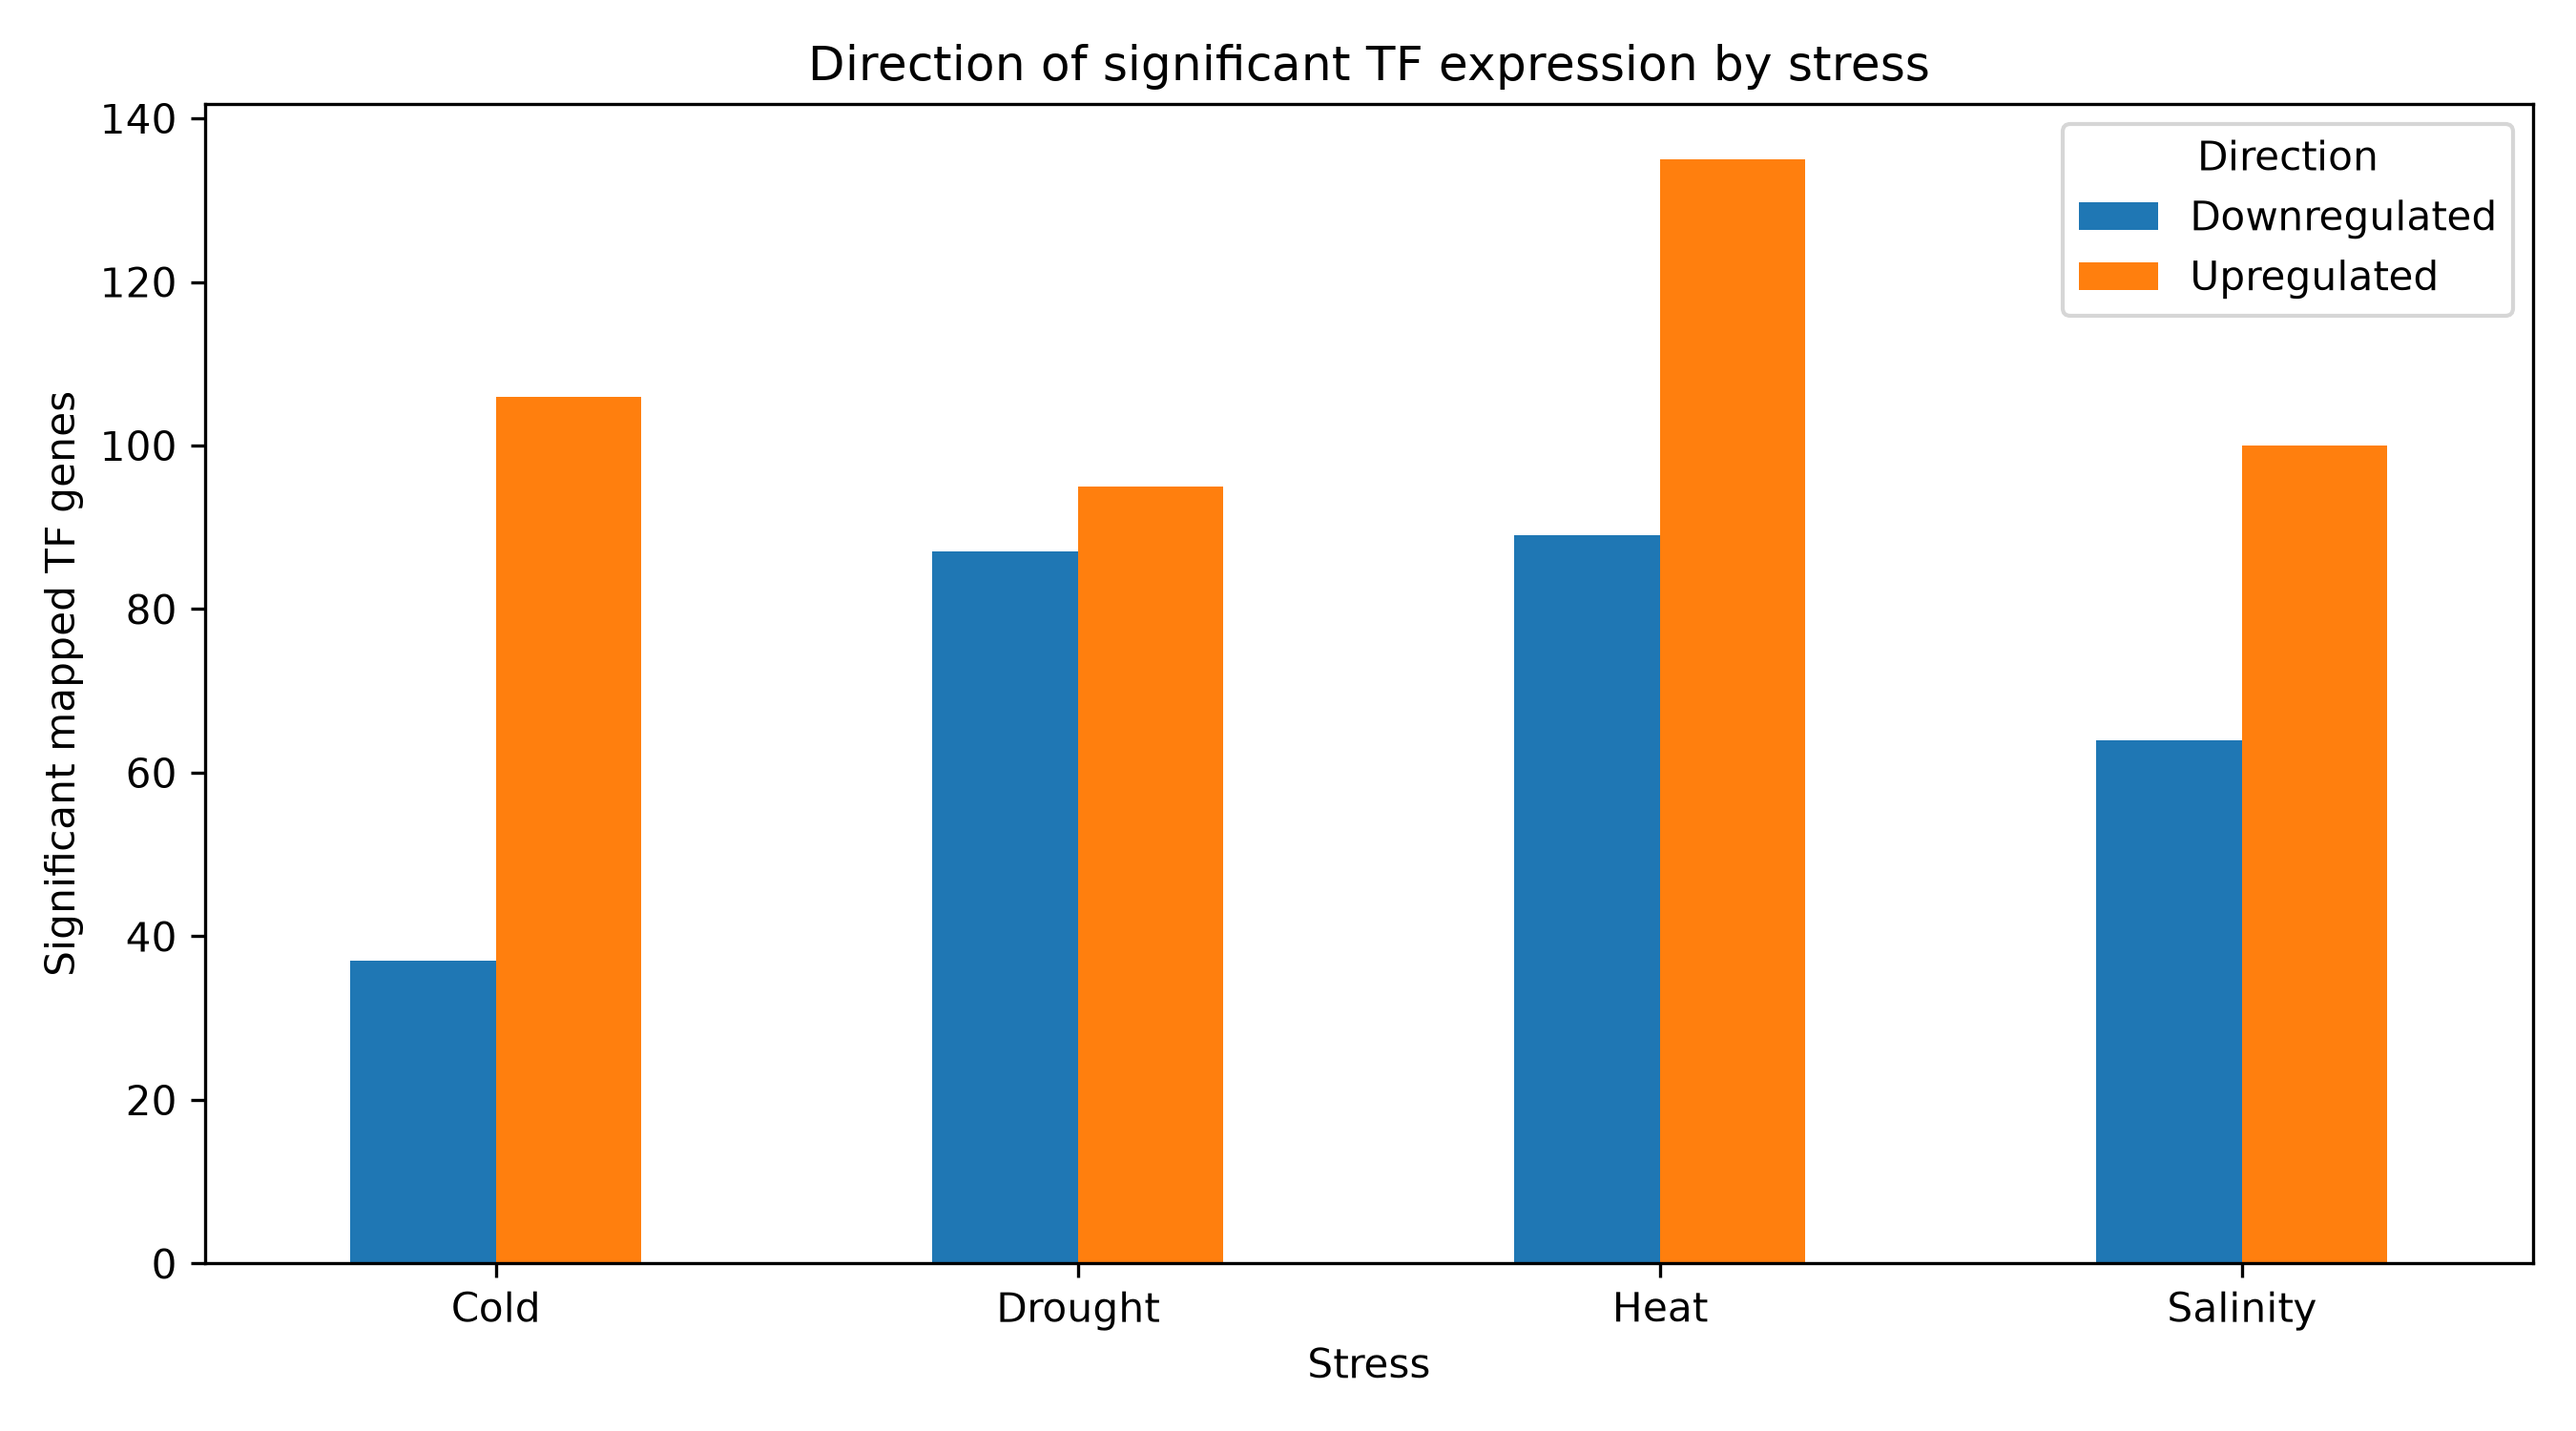
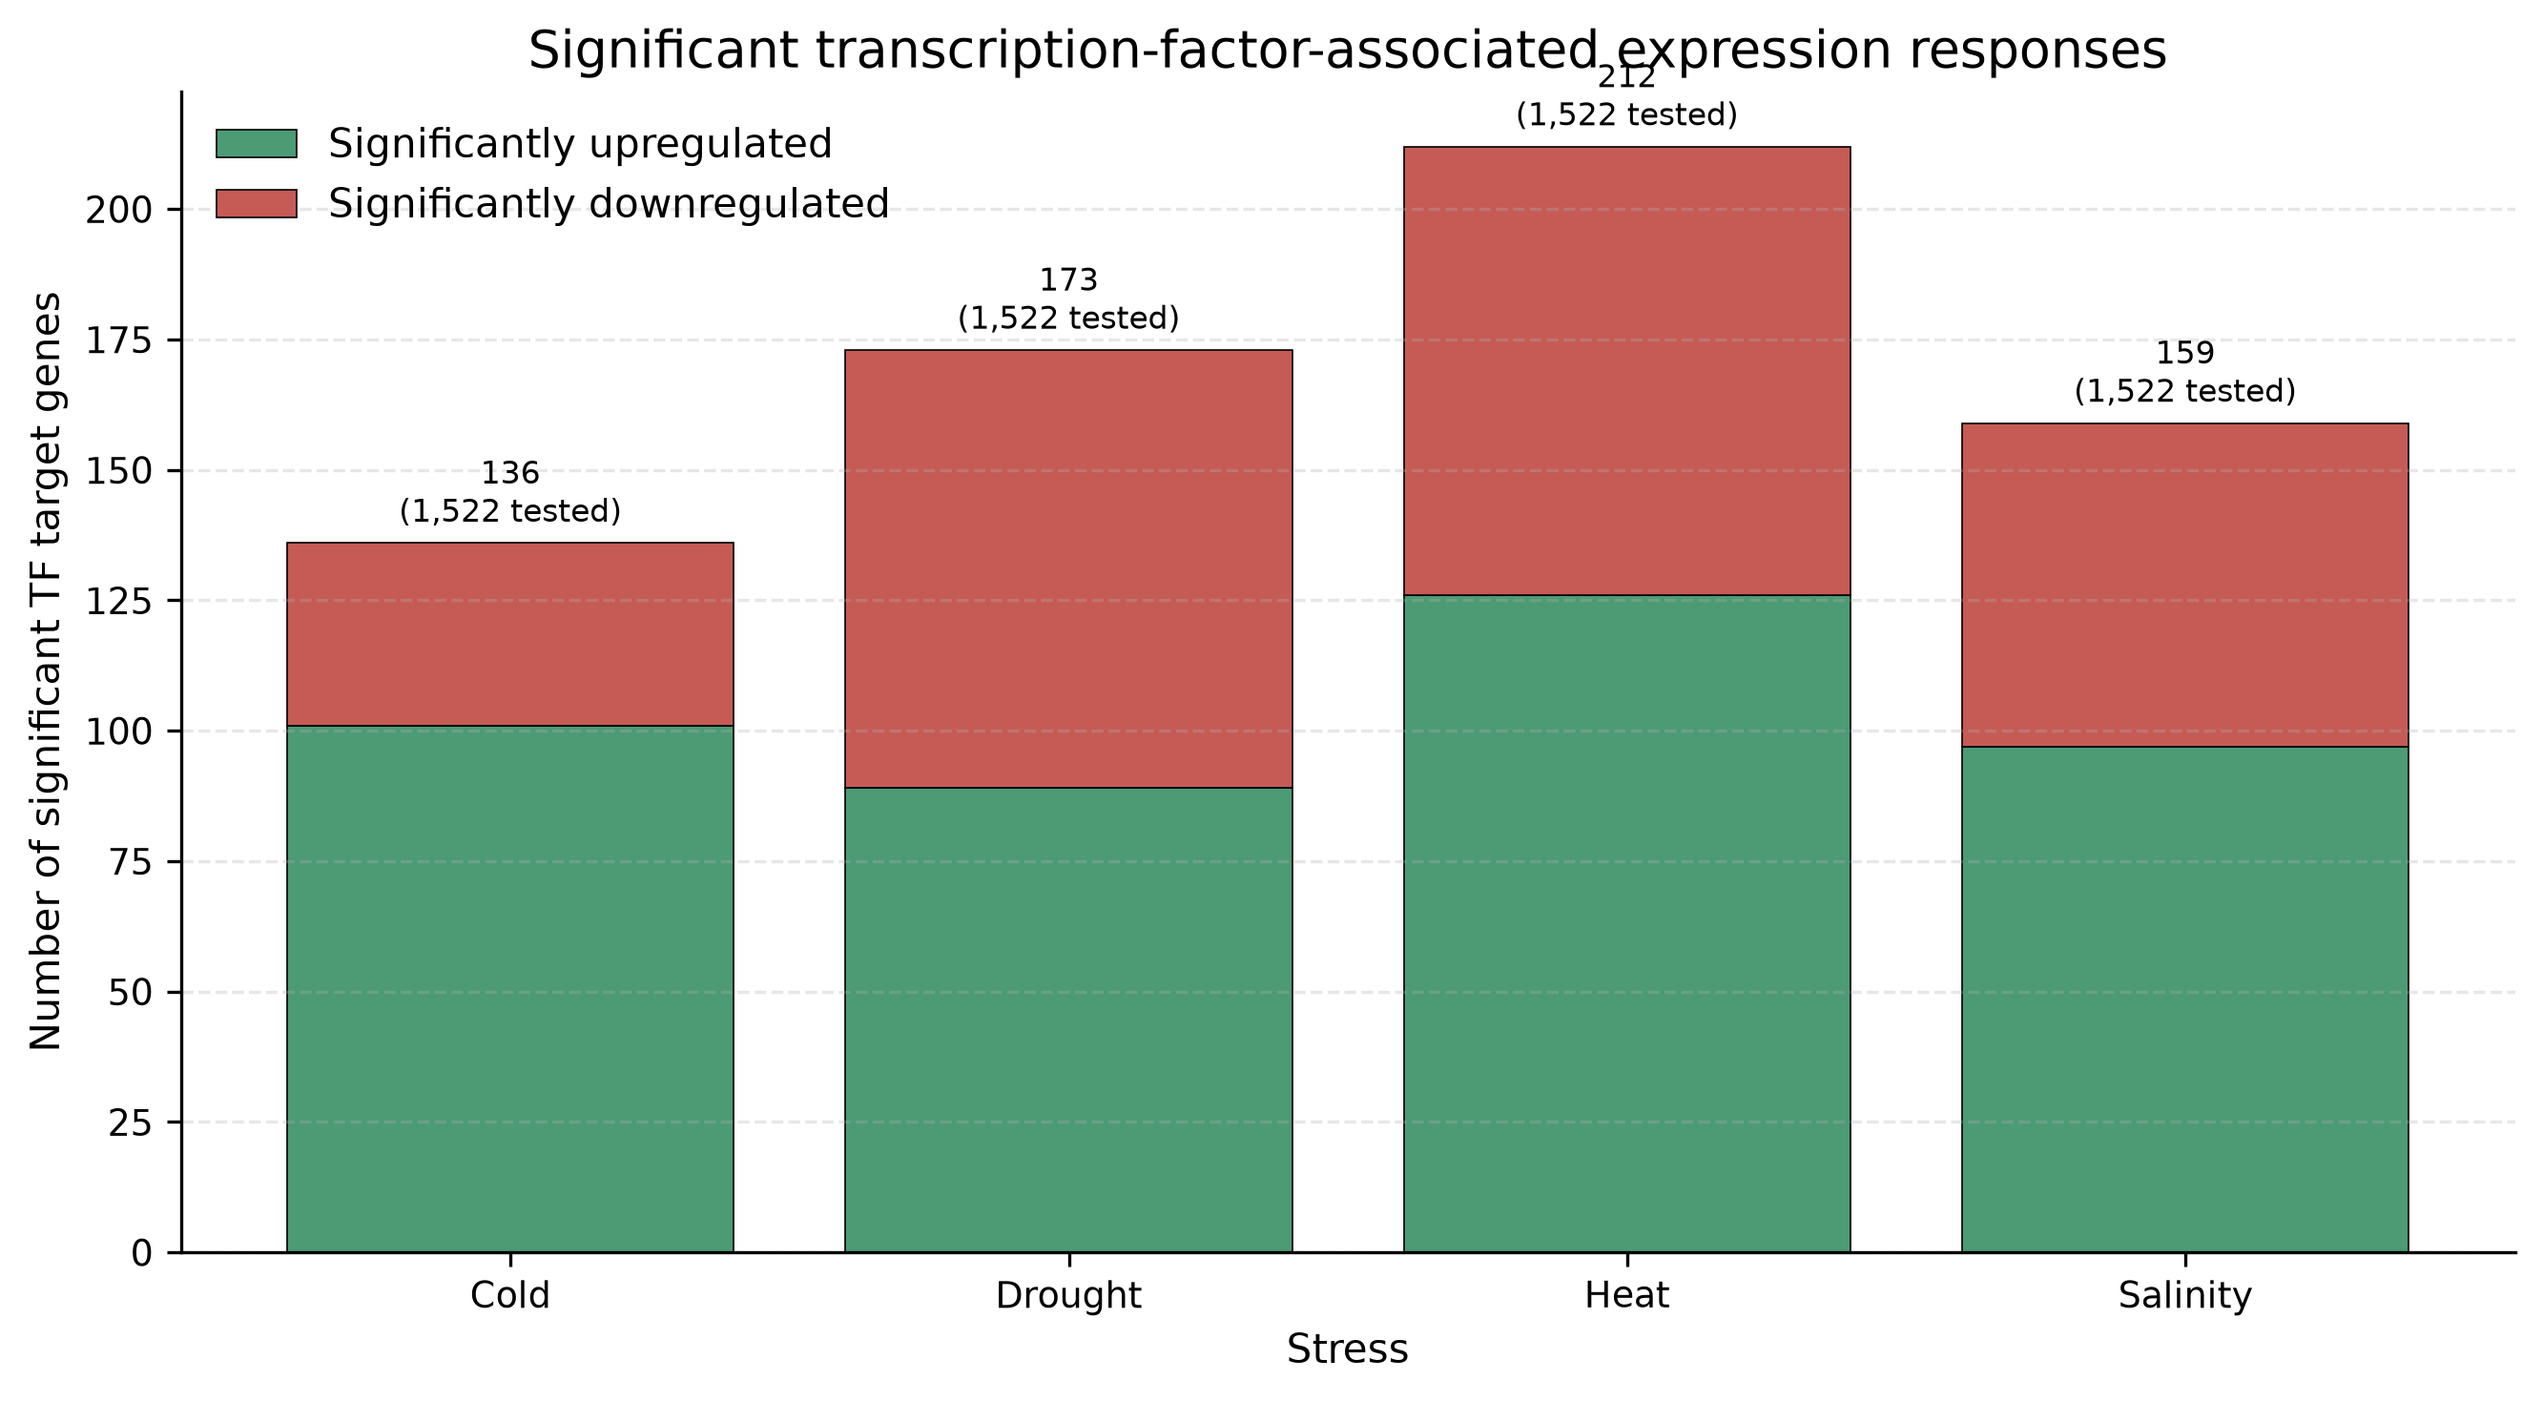
updated

diff --git a/content/src/pages/Exercises/ExerciseOne.jsx b/content/src/pages/Exercises/ExerciseOne.jsx
@@ -1360,13 +1360,14 @@ const ExerciseOne = () => {
 
 
                             <p>
-                                The TF analysis identified 1,672 mapped TF genes per stress
-                                comparison. Of these, 143 were significantly differentially
-                                expressed under cold (106 upregulated and 37 downregulated),
-                                182 under drought (95 upregulated and 87 downregulated), 224
-                                under heat (135 upregulated and 89 downregulated), and 164
-                                under salinity (100 upregulated and 64 downregulated),
-                                giving 713 significant TF–stress records.
+                                The TF analysis identified 1,522 mapped TF genes tested per 
+                                stress comparison. Of these, 136 were significantly 
+                                differentially expressed under cold (101 upregulated and 35 
+                                downregulated), 173 under drought (89 upregulated and 84 
+                                downregulated), 212 under heat (126 upregulated and 86 
+                                downregulated), and 159 under salinity (97 upregulated and 62 
+                                downregulated), giving a total of 680 significant TF–stress 
+                                records.
                             </p>
 
                             <figure className="rl-enrichment-figure">
@@ -1394,25 +1395,29 @@ const ExerciseOne = () => {
                             </figure>
 
                             <p>
-                                The aggregated summary identified 48 transcription factor (TF)
-                                families, with ERF having the highest reported count of 54 unique
-                                TF genes, followed by MYB (35), MYB_related and WRKY (31 each),
-                                bHLH (29), bZIP (26), NAC (24), HD-ZIP (22), GRAS (19), C2H2 (18),
-                                ARF (16), and HSF (14). The remaining families included G2-like,
-                                C3H, Dof, GATA, CO-like, AP2, DBB, TCP, TALE, SBP, LBD, B3, NF-YA,
-                                ARR-B, FAR1, RAV, Trihelix, GRF, LSD, ZF-HD, M-type_MADS, NF-X1,
-                                MIKC_MADS, GeBP, E2F/DP, NF-YB, EIL, CAMTA, CPP, STAT, S1Fa-like,
-                                NF-YC, and VOZ. When the significant TFs were examined separately
-                                by stress condition, ERF was consistently among the most
-                                represented families, with 28 records under cold, 25 under
-                                drought, 24 under heat, and 23 under salinity. Other repeatedly
-                                represented families included MYB, bHLH, and bZIP, although
-                                their counts varied across the stress comparisons. Some families
-                                showed greater representation under particular conditions; such
-                                as HSF which had 13 significant TF records under heat, while
-                                WRKY had 16 under cold and 14 under salinity. These patterns
-                                highlight TF families that may warrant further investigation
-                                in relation to the observed stress responses.
+                                The aggregated summary identified 46 transcription factor (TF) 
+                                families, comprising 428 unique TF genes represented across the 
+                                four stress comparisons. ERF was the most represented family, 
+                                with 52 unique genes, followed by MYB (33), WRKY (30), 
+                                MYB_related and bHLH (27 each), bZIP (26), NAC (23), HD-ZIP 
+                                (21), GRAS (19), C2H2 (18), ARF (16), and HSF (13). The 
+                                remaining families included G2-like, C3H, CO-like, Dof, GATA, 
+                                AP2, DBB, TALE, SBP, TCP, B3, HB-other, Nin-like, LBD, ARR-B, 
+                                LSD, NF-YA, RAV, Trihelix, ZF-HD, FAR1, GeBP, M-type_MADS, 
+                                NF-X1, CAMTA, CPP, E2F/DP, EIL, GRF, NF-YB, NF-YC, S1Fa-like, 
+                                STAT, and VOZ. Examination of the family distribution across 
+                                individual stress conditions showed that ERF was consistently 
+                                the most represented family, with 28, 26, 26, and 23 
+                                family-associated records under cold, drought, heat, and 
+                                salinity, respectively. Other prominent families included MYB, 
+                                MYB_related, WRKY, bHLH, and bZIP, although their representation 
+                                varied across conditions. Some families showed stronger 
+                                representation under particular stresses; for example, C2H2 and 
+                                HSF each had 13 and 12 records, respectively, under heat, while 
+                                WRKY had 15 records under cold and 14 under salinity. 
+                                These distributions identify TF families that may warrant 
+                                further investigation in relation to the observed 
+                                stress-associated expression patterns.
                             </p>
 
                             <figure className="rl-enrichment-figure">
